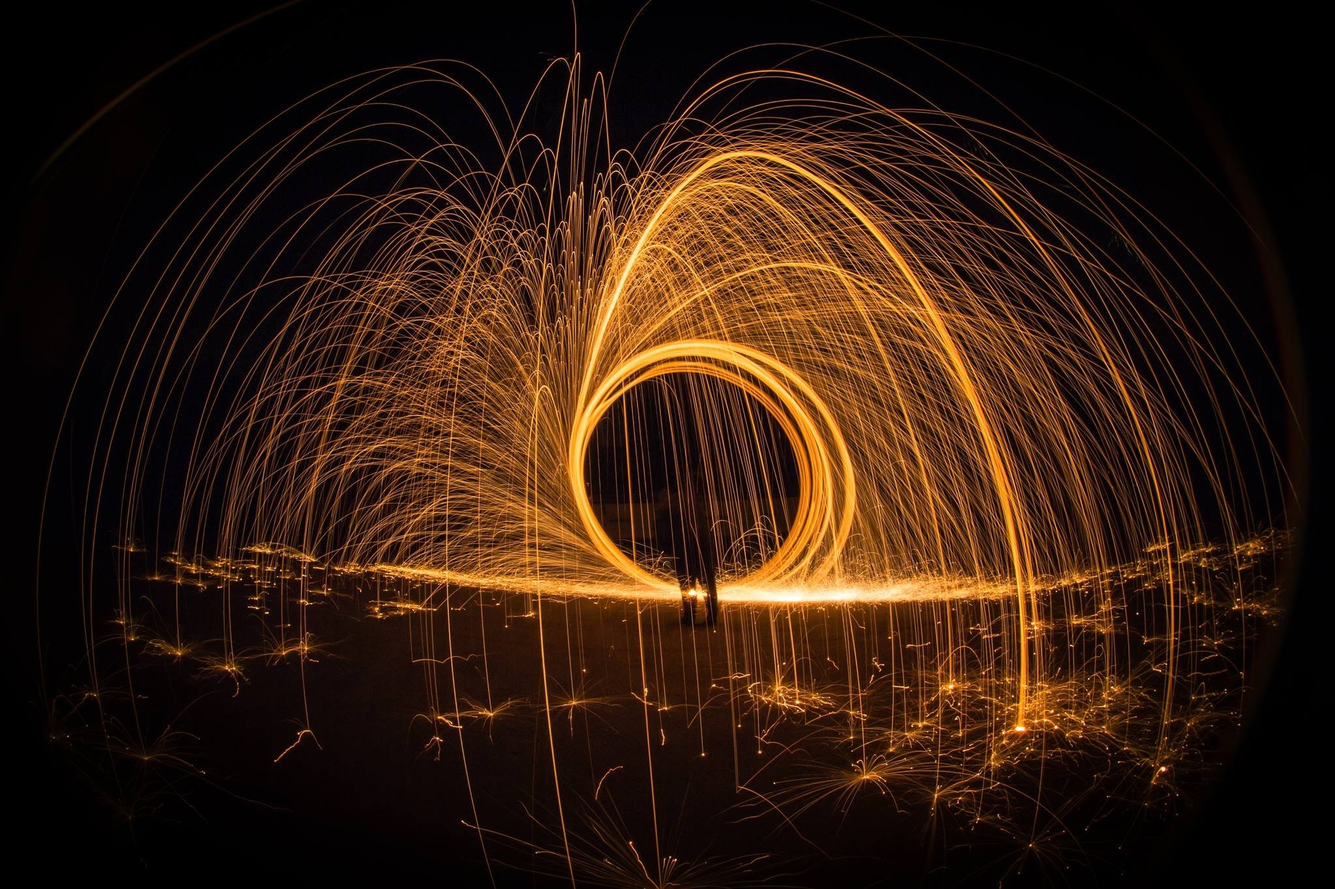
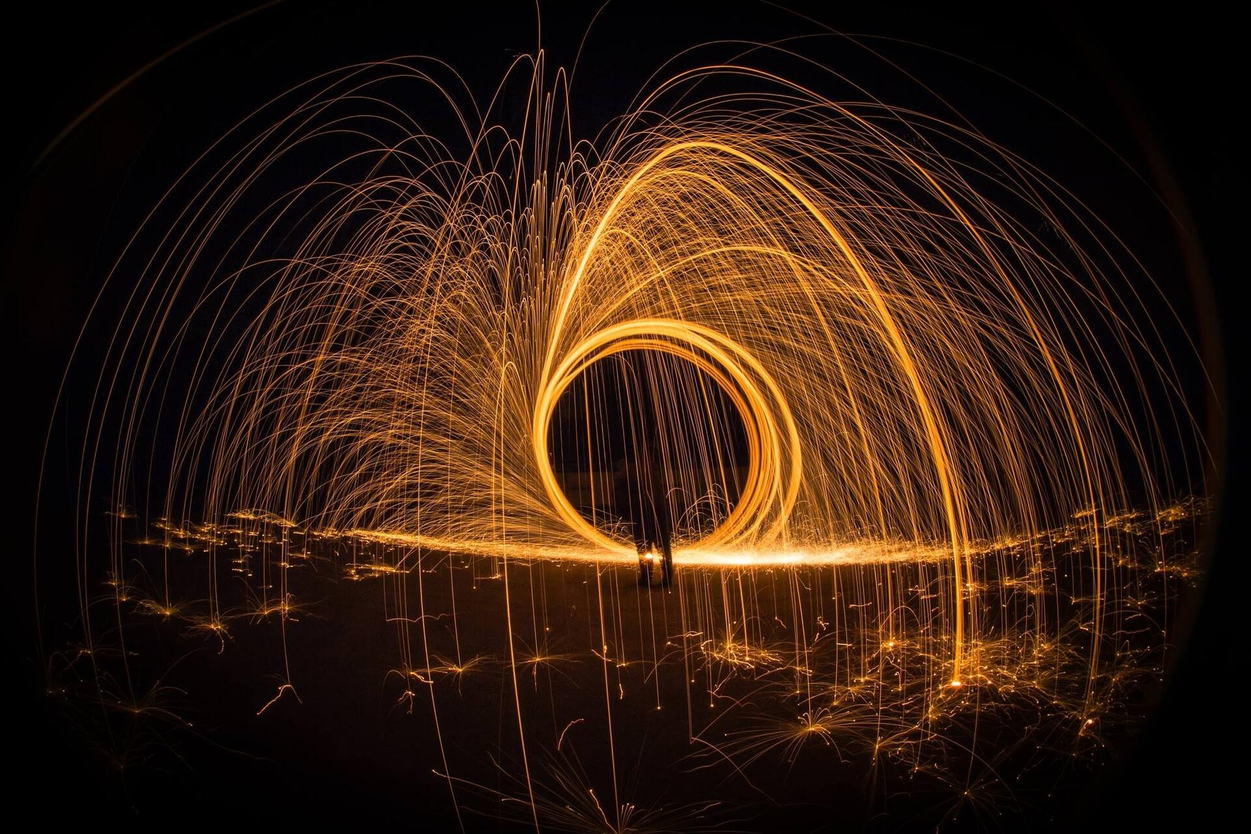
fondo y docker

diff --git a/index.html b/index.html
@@ -348,7 +348,7 @@
                 Docker provides the ability to package and run an application in a loosely isolated environment called a container.
                 <i class="bx bxs-quote-alt-right quote-icon-right"></i>
               </p>
-              <img src="assets/img/testimonials/docker.jpeg" class="testimonial-img">
+              <img src="assets/img/testimonials/docker.jpg" class="testimonial-img">
               <h3>Docker</h3>
               <h4>Ceo &amp; Founder</h4>
             </div>
@@ -361,7 +361,7 @@
                 Kubernetes is an open source, portable and extensible platform for managing workloads and services.
                 <i class="bx bxs-quote-alt-right quote-icon-right"></i>
               </p>
-              <img src="assets/img/testimonials/kubernetes.jpg" class="testimonial-img" alt="">
+              <img src="assets/img/testimonials/ku.jpg" class="testimonial-img" alt="">
               <h3>Kubernetes</h3>
               <h4>Designer</h4>
             </div>

diff --git a/assets/css/style.css b/assets/css/style.css
@@ -26,7 +26,7 @@ body {
 body::before {
   content: "";
   position: fixed;
-  background: #040404 url("../img/bg17.jpg") top right no-repeat;
+  background: #040404 url("../img/bg18.jpg") top right no-repeat;
   background-size: contain;
   left: 0;
   right: 0;
